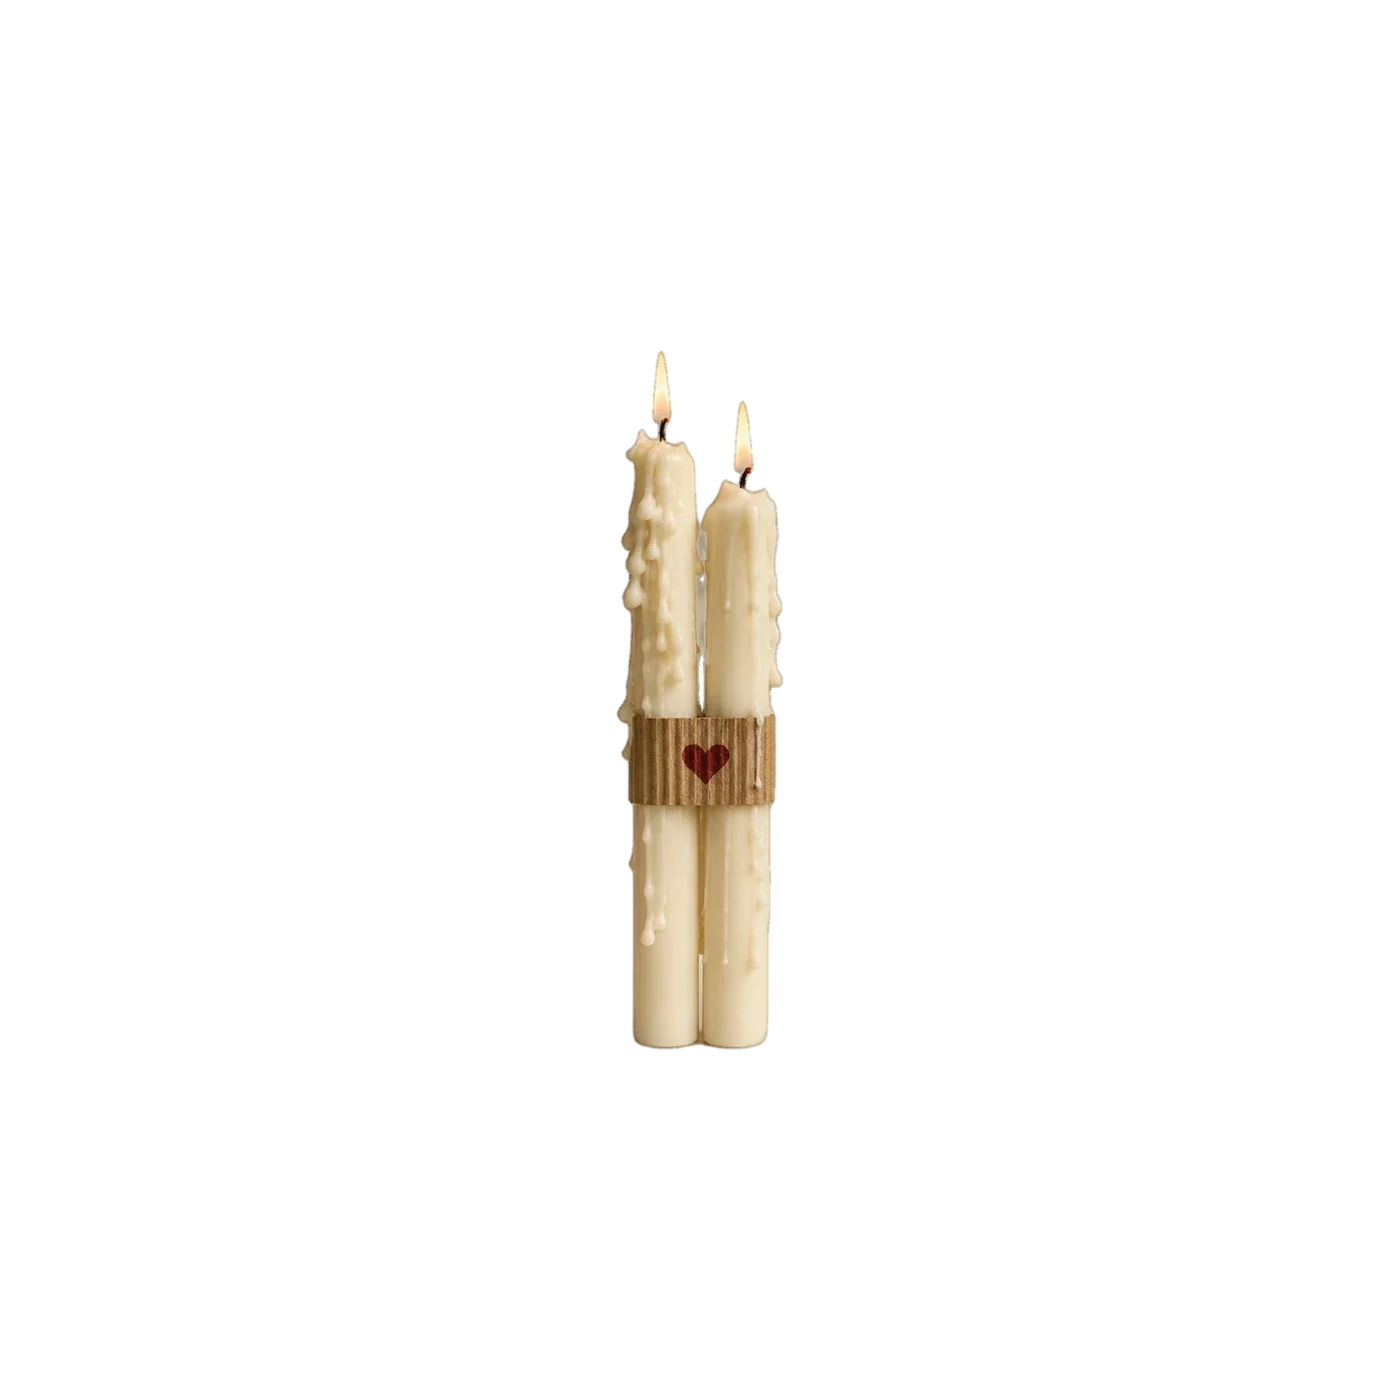
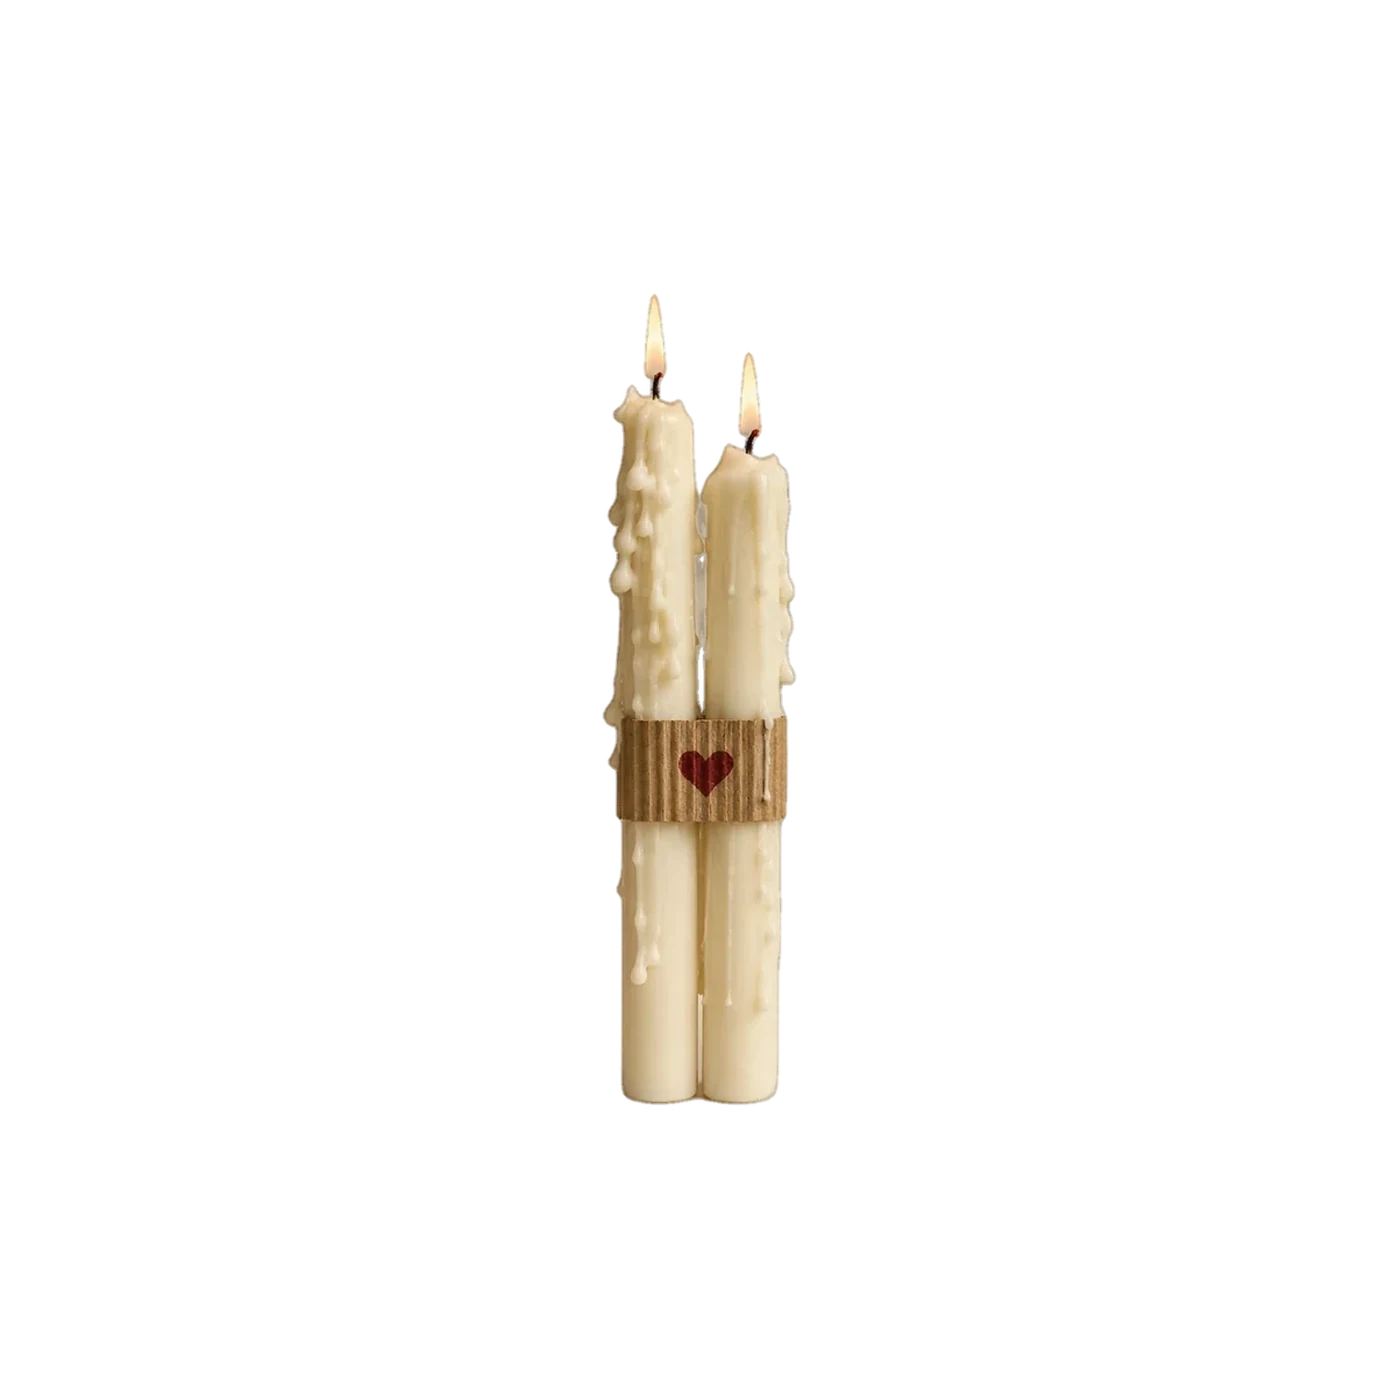
Zoom the product photo on its own page; bump tote and candle-sticks fill
The tote and candle-sticks photos read too small on the product detail
page's full-height mobile frame, even though their fill ratio was already
tuned for the shelf tile (65% and 58%, up from 58% and 50%). Product
photos on their own page also now open full-screen on tap, since that
frame has nothing else competing with the image for space.

Claude-Session: https://claude.ai/code/session_01YNooiFC1k2Jrv3Fm1HcV4i

Changed region(s): [[0.43, 0.215, 0.5836, 0.7986]]

diff --git a/src/app/components/objects/ObjectSlides.tsx b/src/app/components/objects/ObjectSlides.tsx
@@ -1,34 +1,62 @@
-import { useRef, useState } from "react";
-import { ChevronLeft, ChevronRight } from "lucide-react";
+import { useEffect, useRef, useState } from "react";
+import { ChevronLeft, ChevronRight, Maximize2, X } from "lucide-react";
 
 /*
  * The image slot on a retail card, for products that have more than one face.
  *
- * Every product with two or more faces gets the same control: a swipeable
- * track, with a pair of arrow buttons for a pointer that doesn't drag and the
- * dots for aim. This used to give exactly-two-face products (the tote, the
- * lighter) a 3D card flip instead — dropped in favour of one interaction
- * that behaves the same everywhere, rather than a flip on some cards and a
- * swipe on others.
+ * Every product with more than one face — the tote, the lighter, the match
+ * sticks alike — gets the same swipeable track rather than a flip on some
+ * cards and a drag on others. This used to give exactly-two-face products
+ * (the tote, the lighter) a 3D card flip instead — dropped in favour of one
+ * interaction that behaves the same everywhere, rather than a flip on some
+ * cards and a swipe on others.
  *
  * A product with one image renders exactly the <img> the card rendered
  * before, with no dots and nothing to click.
  *
- * Both controls sit inside a link to the product's own page (Objects.tsx),
- * so every gesture here has to stop the click there rather than let it
- * bubble into the anchor and navigate away mid-browse.
+ * Every control here — swipe, arrows, dots, zoom — sits inside a link to the
+ * product's own page on the shelf grid (Objects.tsx), so every gesture has
+ * to stop the click there rather than let it bubble into the anchor and
+ * navigate away. `zoomable` defaults to off for exactly that reason: a
+ * magnify trigger is one more thing to tap past on an already-small grid
+ * tile, competing with the arrows and dots it already carries. The product's
+ * own page (ProductDetail.tsx), which has nothing else fighting the image
+ * for space, turns it on.
  */
 
 type Props = {
   images: readonly string[];
   alt: string;
+  zoomable?: boolean;
 };
 
-export function ObjectSlides({ images, alt }: Props) {
+export function ObjectSlides({ images, alt, zoomable = false }: Props) {
   const [shown, setShown] = useState(0);
+  const [zoomed, setZoomed] = useState(false);
+
+  const openZoom = (e: React.MouseEvent) => {
+    e.preventDefault();
+    e.stopPropagation();
+    setZoomed(true);
+  };
 
   if (images.length < 2) {
-    return <img src={images[0]} alt={alt} loading="lazy" />;
+    return (
+      <>
+        <img src={images[0]} alt={alt} loading="lazy" />
+        {zoomable && (
+          <button
+            type="button"
+            className="editorial-object-zoom-trigger"
+            onClick={openZoom}
+            aria-label={`Zoom in on ${alt}`}
+          >
+            <Maximize2 size={14} strokeWidth={1.5} aria-hidden="true" />
+          </button>
+        )}
+        {zoomed && images[0] && <Lightbox src={images[0]} alt={alt} onClose={() => setZoomed(false)} />}
+      </>
+    );
   }
 
   const goPrev = (e: React.MouseEvent) => {
@@ -64,6 +92,16 @@ export function ObjectSlides({ images, alt }: Props) {
       >
         <ChevronRight size={16} strokeWidth={1.5} aria-hidden="true" />
       </button>
+      {zoomable && (
+        <button
+          type="button"
+          className="editorial-object-zoom-trigger"
+          onClick={openZoom}
+          aria-label={`Zoom in on ${alt}`}
+        >
+          <Maximize2 size={14} strokeWidth={1.5} aria-hidden="true" />
+        </button>
+      )}
       <div className="editorial-object-dots">
         {images.map((src, i) => (
           <button
@@ -80,7 +118,58 @@ export function ObjectSlides({ images, alt }: Props) {
           />
         ))}
       </div>
+      {zoomed && images[shown] && <Lightbox src={images[shown]} alt={alt} onClose={() => setZoomed(false)} />}
     </>
+  );
+}
+
+/*
+ * The zoomed view: the same photograph, full-screen, with nothing else on
+ * it. Closes on the X, on clicking the backdrop, or on Escape — three exits
+ * because a full-bleed dark overlay is easy to get stuck inside otherwise.
+ */
+function Lightbox({ src, alt, onClose }: { src: string; alt: string; onClose: () => void }) {
+  useEffect(() => {
+    const onKey = (e: KeyboardEvent) => {
+      if (e.key === "Escape") onClose();
+    };
+    window.addEventListener("keydown", onKey);
+    return () => window.removeEventListener("keydown", onKey);
+  }, [onClose]);
+
+  return (
+    <div
+      className="editorial-object-lightbox"
+      role="dialog"
+      aria-modal="true"
+      aria-label={alt}
+      onClick={(e) => {
+        e.preventDefault();
+        e.stopPropagation();
+        onClose();
+      }}
+    >
+      <button
+        type="button"
+        className="editorial-object-lightbox-close"
+        onClick={(e) => {
+          e.preventDefault();
+          e.stopPropagation();
+          onClose();
+        }}
+        aria-label="Close"
+      >
+        <X size={20} strokeWidth={1.5} aria-hidden="true" />
+      </button>
+      <img
+        src={src}
+        alt={alt}
+        onClick={(e) => {
+          e.preventDefault();
+          e.stopPropagation();
+        }}
+      />
+    </div>
   );
 }
 

diff --git a/src/styles/margiela.css b/src/styles/margiela.css
@@ -1337,6 +1337,84 @@
     cursor: default;
   }
 
+  /* Top-right corner, same quiet-until-noticed treatment as the arrows —
+     opt-in per ObjectSlides caller via `zoomable`, see that component. */
+  .editorial-object-zoom-trigger {
+    position: absolute;
+    top: 10px;
+    right: 10px;
+    z-index: 1;
+    display: flex;
+    align-items: center;
+    justify-content: center;
+    width: 26px;
+    height: 26px;
+    padding: 0;
+    border: none;
+    background: none;
+    color: var(--editorial-ink, #12100d);
+    opacity: 0.45;
+    cursor: pointer;
+    transition: opacity 200ms ease;
+  }
+
+  .editorial-object-zoom-trigger:hover,
+  .editorial-object-zoom-trigger:focus-visible {
+    opacity: 0.9;
+  }
+
+  .editorial-object-zoom-trigger:focus-visible {
+    outline: 2px solid var(--editorial-ink, #12100d);
+    outline-offset: 2px;
+  }
+
+  /*
+   * The zoomed photograph, full-bleed. z-index 110: above the cart drawer
+   * (90) and the cookie banner (100), below only the skip link (120), which
+   * has to reach through absolutely everything.
+   */
+  .editorial-object-lightbox {
+    position: fixed;
+    inset: 0;
+    z-index: 110;
+    display: flex;
+    align-items: center;
+    justify-content: center;
+    padding: 24px;
+    background: rgba(18, 16, 13, 0.94);
+    cursor: zoom-out;
+  }
+
+  .editorial-object-lightbox img {
+    max-width: 100%;
+    max-height: 100%;
+    object-fit: contain;
+    cursor: default;
+  }
+
+  .editorial-object-lightbox-close {
+    position: absolute;
+    top: 18px;
+    right: 18px;
+    display: flex;
+    align-items: center;
+    justify-content: center;
+    width: 36px;
+    height: 36px;
+    padding: 0;
+    border: none;
+    background: none;
+    color: var(--editorial-paper, #f5f3ee);
+    cursor: pointer;
+    opacity: 0.8;
+    transition: opacity 200ms ease;
+  }
+
+  .editorial-object-lightbox-close:hover,
+  .editorial-object-lightbox-close:focus-visible {
+    opacity: 1;
+  }
+
   .editorial-object-card:hover .editorial-object-image img {
     transform: scale(1.04);
     filter: none;
@@ -1570,6 +1648,13 @@
 
   .editorial-retail-detail-image .editorial-object-arrow-next {
     right: 8px;
+  }
+
+  .editorial-retail-detail-image .editorial-object-zoom-trigger {
+    top: 16px;
+    right: 16px;
+    width: 32px;
+    height: 32px;
   }
 
   .editorial-retail-detail-info {

diff --git a/src/app/content/retail.ts b/src/app/content/retail.ts
@@ -106,8 +106,8 @@ export type CartLine = {
  *                 canvas tote read as the same size, which was the wrong
  *                 fix — airier margins were the ask, not equal ones:
  *
- *                   tote            58%   (~38cm, the largest object here)
- *                   candle sticks   50%   (~25cm, tall but slender)
+ *                   tote            65%   (~38cm, the largest object here)
+ *                   candle sticks   58%   (~25cm, tall but slender)
  *                   candles (tin)   45%   (~7.5cm, a squat tin)
  *                   match sticks    42%   (~8cm box)
  *                   lighters        40%   (~8cm, the smallest)
@@ -115,8 +115,12 @@ export type CartLine = {
  *                 Floored around 40% rather than scaled all the way down
  *                 linearly — a lighter at its true fraction of a tote's size
  *                 would be a speck, illegible on the shelf rather than
- *                 "smaller." A new product's fill should slot into this
- *                 table by its own real size, not default to 55%.
+ *                 "smaller." Tote and candle-sticks were bumped up a second
+ *                 time (58→65, 50→58) after the product page — a full-height
+ *                 mobile frame, not a shelf tile — made them read too small
+ *                 on their own page even though the relative order was
+ *                 right; a new product's fill should slot into this table by
+ *                 its own real size, not default to a number here.
  *
  * A replacement has to meet both, or it will stand out from the rest.
  *

diff --git a/src/app/pages/ProductDetail.tsx b/src/app/pages/ProductDetail.tsx
@@ -34,7 +34,7 @@ export function ProductDetail({ linkTo, product, cartLines, onAdd }: Props) {
       </nav>
 
       <div className="editorial-retail-detail-image">
-        <ObjectSlides images={product.images ?? [product.image]} alt={product.name} />
+        <ObjectSlides images={product.images ?? [product.image]} alt={product.name} zoomable />
       </div>
 
       <div className="editorial-retail-detail-info">
